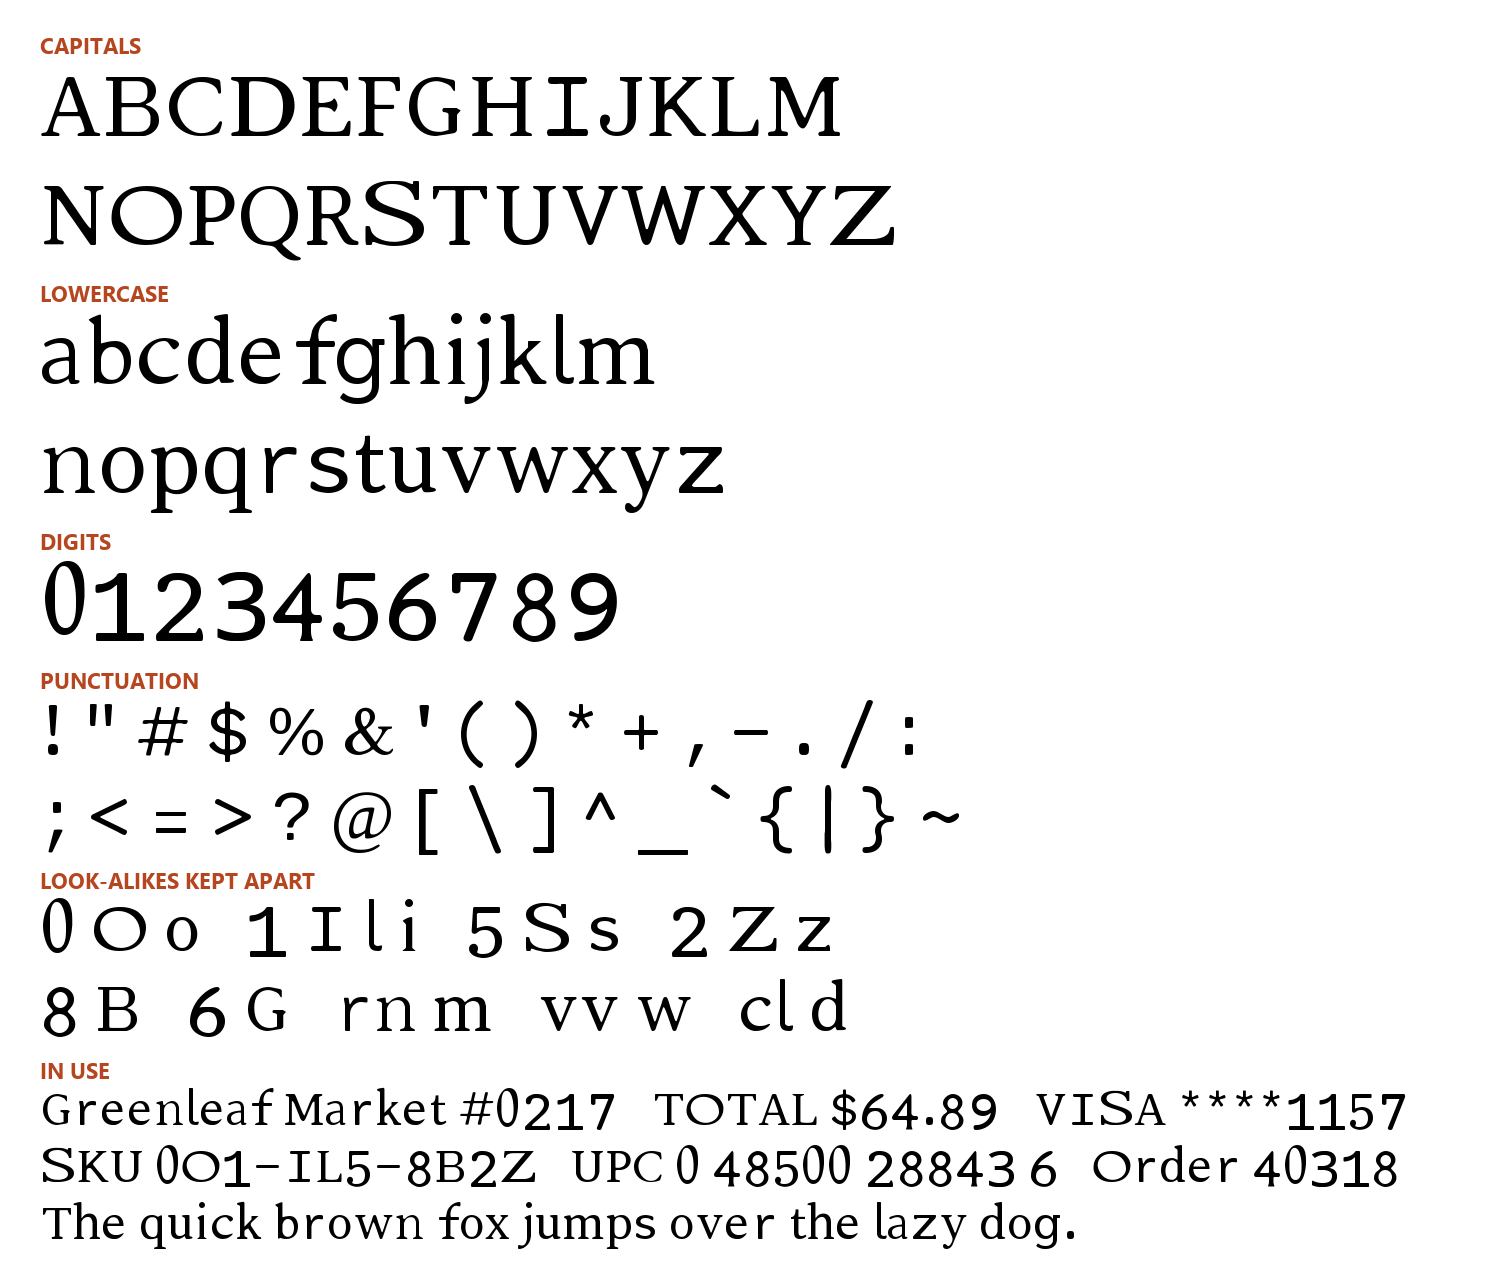
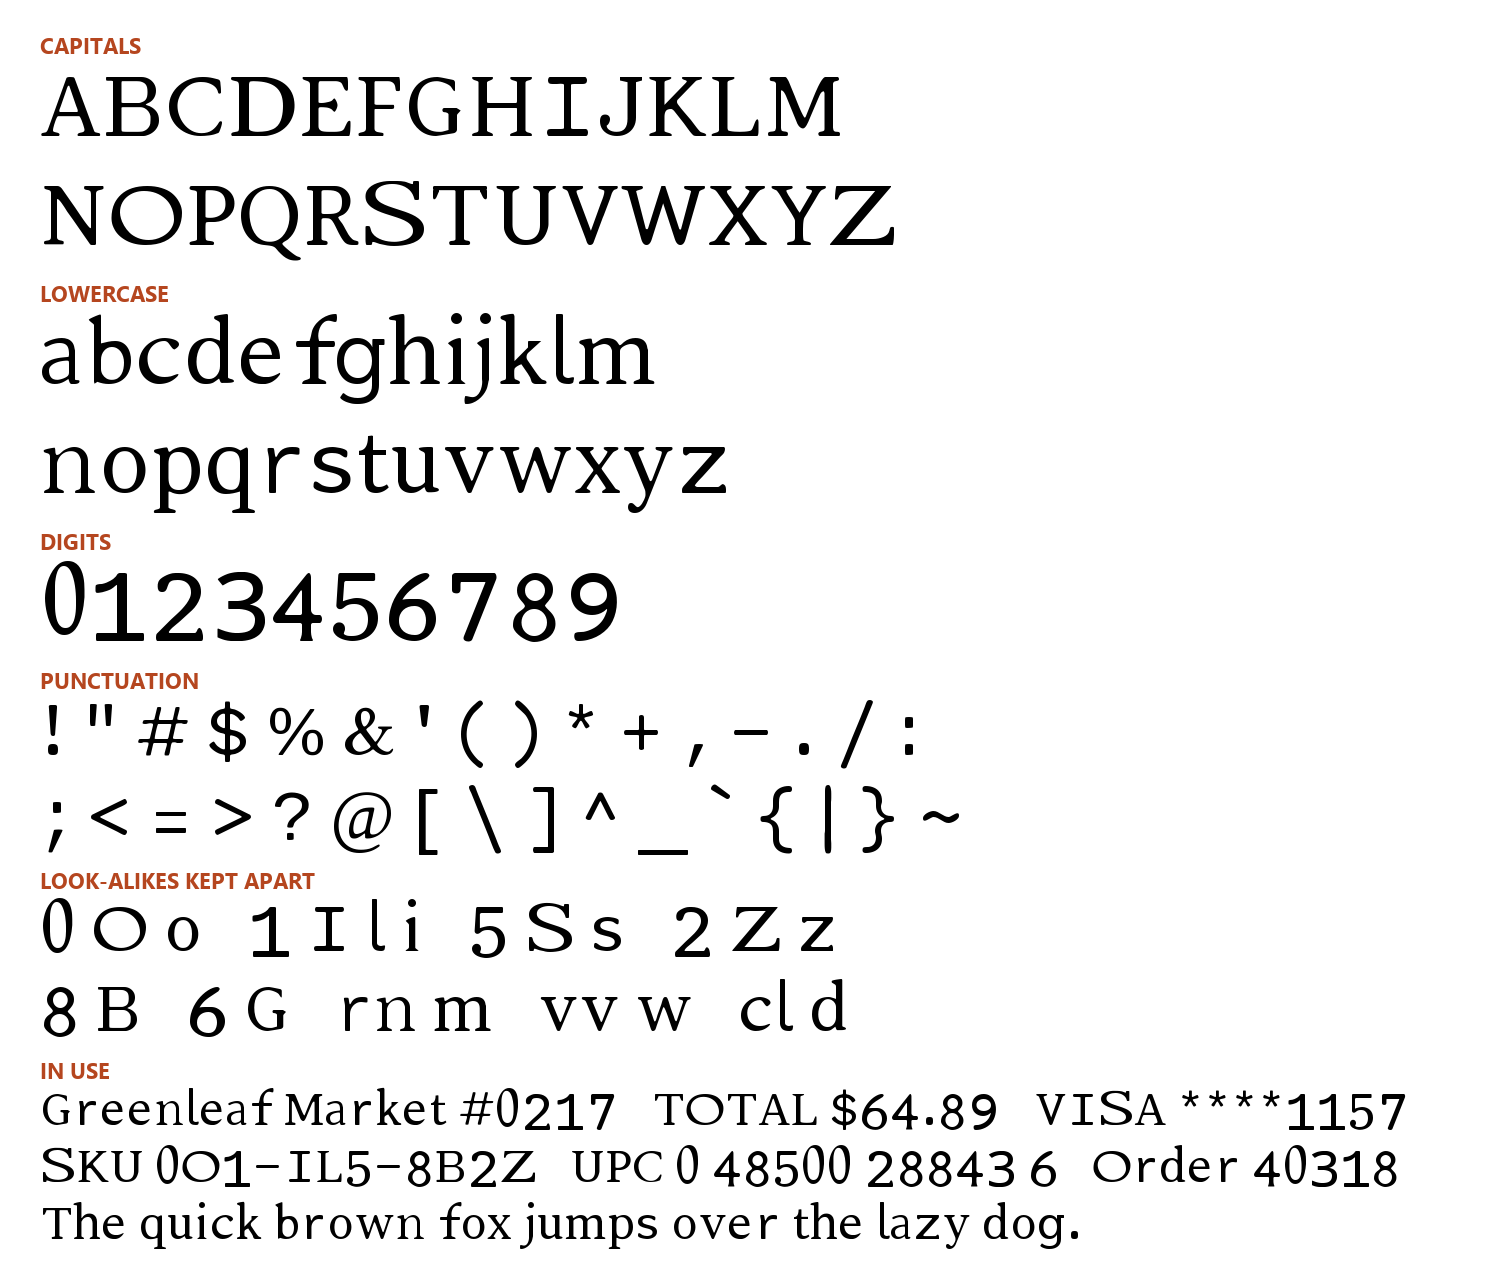
v0.99.4: 40 more units around o (heavy paragraphs 30.10 -> 29.66); README 28% fewer errors than Courier New

diff --git a/README.md b/README.md
@@ -6,7 +6,7 @@ but every character is shaped and spaced so that OCR engines confuse it with as 
 
 ![MaxOCR character set](docs/specimen.png)
 
-**Version 0.99.3.** 95 characters: A–Z, a–z, 0–9, space and all 32 ASCII punctuation marks.
+**Version 0.99.4.** 95 characters: A–Z, a–z, 0–9, space and all 32 ASCII punctuation marks.
 
 ## Which file to use
 
@@ -26,7 +26,7 @@ crisp to badly damaged. Lower is better.
 
 ![Average character error by font and kind of text](docs/table_summary.svg)
 
-Across all three kinds of text, MaxOCR makes **27% fewer errors than the next best font** (Courier New) and **about
+Across all three kinds of text, MaxOCR makes **28% fewer errors than the next best font** (Courier New) and **about
 half as many as Arial, Times New Roman or Helvetica**. The gap is largest on **numbers**: 2.9% against 4.4% for the
 next best font.
 
@@ -119,24 +119,23 @@ number means that font made fewer errors than MaxOCR.
 
 | Text | Clean | Blurry | Noisy | Low-res | JPEG | Ink bleed | Smudged | Damaged | Heavy |
 |---|---:|---:|---:|---:|---:|---:|---:|---:|---:|
-| Paragraphs | 37% | 17% | 20% | 11% | 46% | tie | tie | 4% | −6% |
-| Codes | 13% | 31% | 5% | 15% | 13% | 29% | 20% | 5% | 2% |
+| Paragraphs | 37% | 23% | 21% | 11% | 43% | 11% | tie | 7% | −4% |
+| Codes | 14% | 30% | 7% | 14% | 14% | 27% | 20% | 6% | 2% |
 | Numbers | tie | tie | 18% | −12% | tie | tie | tie | 24% | 30% |
 
 Tie: equal to one decimal. Clean, blurry, JPEG, ink-bleed and smudged numbers are read almost perfectly by
 every good font (under 0.1% errors for the best ones).
 
-- **Clean print.** MaxOCR makes 37% fewer errors than the best other font on paragraphs (Georgia) and 13% fewer on
+- **Clean print.** MaxOCR makes 37% fewer errors than the best other font on paragraphs (Georgia) and 14% fewer on
   codes (Bookman Old Style); numbers in clean print are read perfectly in most fonts. Against the everyday fonts it's
-  37–55% fewer than the average of Arial, Times New Roman and Calibri.
+  38–55% fewer than the average of Arial, Times New Roman and Calibri.
 - **Codes.** MaxOCR leads in all nine conditions.
 - **Where another font is ahead.**
-  - Paragraphs under heavy damage: Courier Prime makes 6% fewer errors (28.4% against 30.1%). Monospaced fonts give
+  - Paragraphs under heavy damage: Courier Prime makes 4% fewer errors (28.4% against 29.7%). Monospaced fonts give
     narrow letters such as l, t and the comma a full-width slot, so they stay apart when heavy damage blurs the line.
   - Numbers at low resolution: Calibri (3.5% against 3.9%).
-- **Ties.** Ink-bleed paragraphs with Courier New (1.07% against 1.15%), smudged paragraphs with Courier Prime
-  (0.70% each), and the near-perfect numbers cells.
-- **Engine agreement.** In 13 of the 27 cells, all four engines agree that MaxOCR does at least as well as the best
+- **Ties.** Smudged paragraphs with Courier Prime (0.7% each) and the near-perfect numbers cells.
+- **Engine agreement.** In 11 of the 27 cells, all four engines agree that MaxOCR does at least as well as the best
   other font (ties included).
 - **Helvetica and Helvetica Neue**, the classic Apple fonts, make slightly more errors than Arial.
 - **OCR-A Extended**, the font designed for 1960s optical readers, does worst overall with today's engines.
@@ -220,7 +219,8 @@ the test's noise. MaxOCR's advantage is with conventional OCR engines and damage
    lines of numbers, and the eye of our old e closed up so it was read as o or a. The 3s and e's of 80 open-licence
    fonts were each fitted into MaxOCR's shapes and tested. The 3 from Noto Sans (Google) cut errors on ink-bleed
    numbers from 0.39% to 0.10%; the e from Spectral (Production Type) cut errors on ink-bleed paragraphs from 1.31%
-   to 1.07%. Both fonts are under the SIL Open Font License.
+   to 1.07%. Both fonts are under the SIL Open Font License. The o then got 40 units more space (half on each side),
+   which keeps it apart from its neighbours under heavy damage.
 
 `DECISIONS.md` records every step, measurement and choice.
 

diff --git a/DECISIONS.md b/DECISIONS.md
@@ -1026,3 +1026,5 @@ v0.99.1 (James: "+60 on e, +40 on a", "go"): extra space after e and a (20 units
 Ink bleed on numbers (2026-10-14/15). Only Tesseract failed (1.53 vs Courier New 0.12), mostly by returning nothing for whole lines. Tried and dropped: ink traps (`ink_traps.py`, notches at inside corners: too small to matter), white centre lines (`inline_lines.py`: uneven, James: sloppy), Ecofont-style holes (`eco_holes.py`; tiny holes vanish at 8 pt/300 dpi, ink bleed numbers 0.39 -> 0.40; bigger holes 0.39 -> 0.20 but heavy 18.3 -> 20.4, damaged 1.90 -> 2.26, clean codes 3.27 -> 3.51), thinner digits (`thin_glyphs.py`; 22% thinner: ink bleed 0.39 -> 0.08 but damaged 1.90 -> 2.92, low-res 3.81 -> 4.63), Tesseract "raw line" mode (`MAXOCR_TESS_PSM=13` in `text_eval.py`; reads all six blank lines but clean codes 4.69 -> 9.28 and clean paragraphs 0.38 -> 1.39 for Tesseract, so the benchmark keeps single-line mode). Moving, resizing or thickening the 0 and digit spacing changed nothing; thinning one digit at a time showed the 3 alone causes the blanks.
 v0.99.2 (James: "look for the best 3 amongst installed fonts", "Let's take it"): the 3 from Noto Sans (OFL), fitted into MaxOCR's 3 box at the same ink area (`three_hunt.py`, 80 OFL fonts, Tesseract screen, 7 min). Four engines: numbers ink bleed 0.39 -> 0.10, damaged 1.90 -> 1.79, low-res 3.81 -> 3.91, codes clean 3.27 -> 3.31. README benchmark: numbers 2.89 -> 2.86, all 5.85.
 v0.99.3 (James: "yes"): the e from Spectral (OFL). On ink-bleed paragraphs our e was misread 51 times (EasyOCR e->a/o: its eye closes), Courier New's 0. `glyph_hunt.py --char e` (80 OFL fonts, four engines on ink-bleed and clean paragraphs, 27 min); full 27-cell test of Spectral, Crimson Pro, Source Sans 3, Noto Sans (`e_full.csv`, 10 min): Spectral wins 24 of 27 (ink-bleed paragraphs 1.31 -> 1.07, smudged 0.72 -> 0.70, heavy 31.19 -> 30.10); Source Sans 3 and Noto Sans lost damaged paragraphs. README benchmark (2.7 min): paragraphs / codes / numbers / all 4.68 / 9.84 / 2.86 / **5.79**, 27% fewer errors than Courier New; behind only in heavy paragraphs (28.41 vs 30.10), low-res numbers (3.48 vs 3.91) and three near-zero numbers cells.
+README tables (2026-10-16, James): second best in each column light blue; ties = equal as printed at one decimal ("anything less than 1/10th of a % is noise"); comparisons use the printed string because numpy's round() turned 0.05 into 0.0 while the table printed 0.1.
+v0.99.4 (James: "yes"): heavy paragraphs, letter by letter against Courier Prime: MaxOCR loses most on l, t, o, a, comma, period (narrow shapes merging). +40 units around one letter at a time (`scratch/space_grid.py`, 9 min): o 30.10 -> 29.65 and better on damaged, low-res, clean; t hurt clean (0.33 -> 0.38); combinations (o+l, o+80, o+60 with l+40) did not add up. Exported with o +40 (half each side). README benchmark (2.6 min): paragraphs / codes / numbers / all 4.61 / 9.84 / 2.86 / **5.77**, 28% fewer errors than Courier New; behind only in heavy paragraphs (28.41 vs 29.66) and low-res numbers (3.48 vs 3.91); #1 or #2 in every cell.
